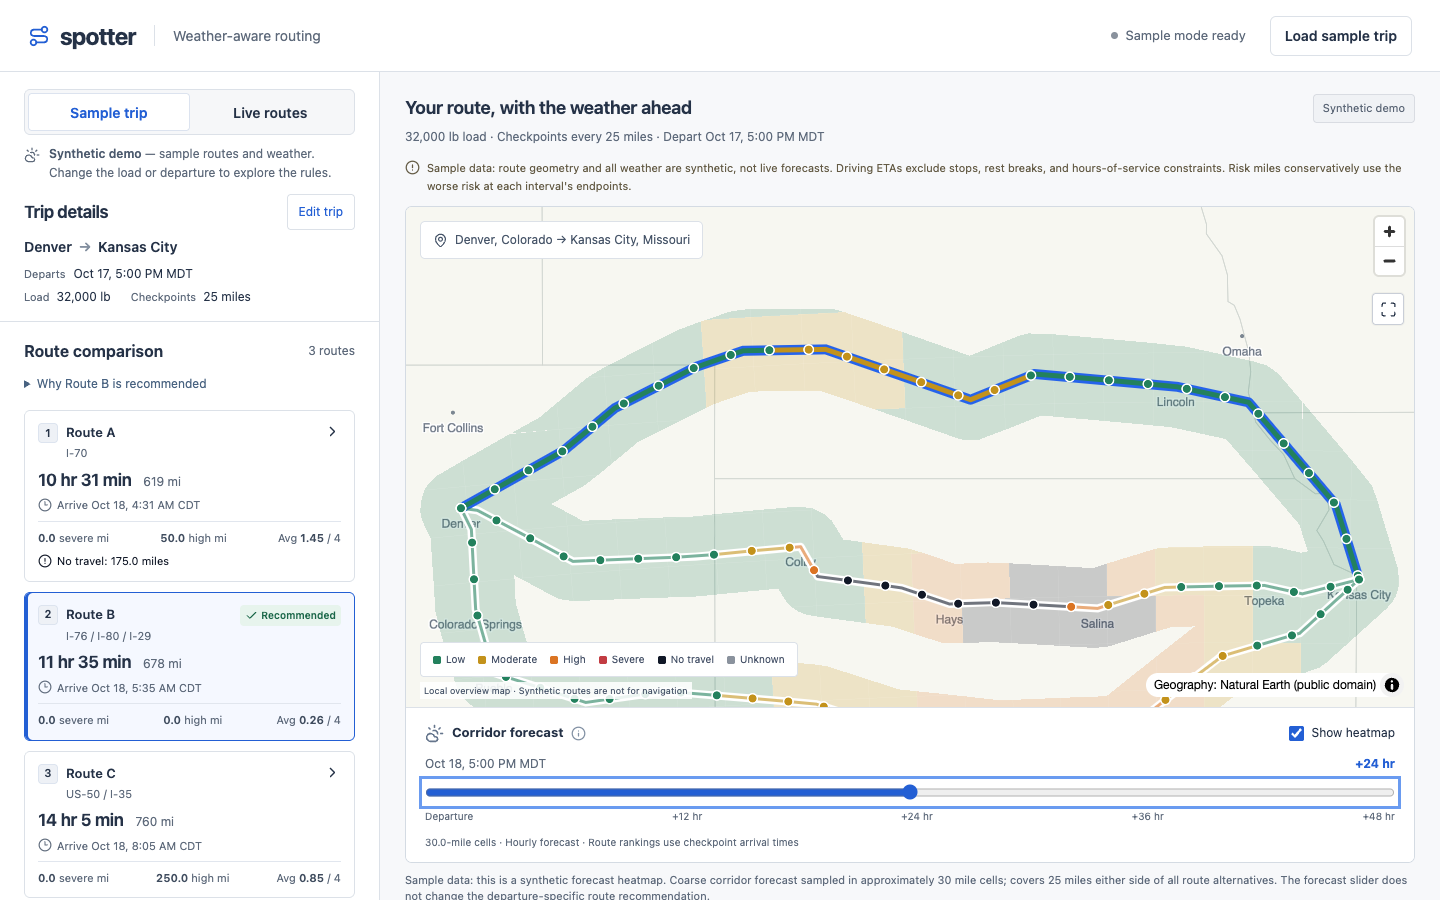
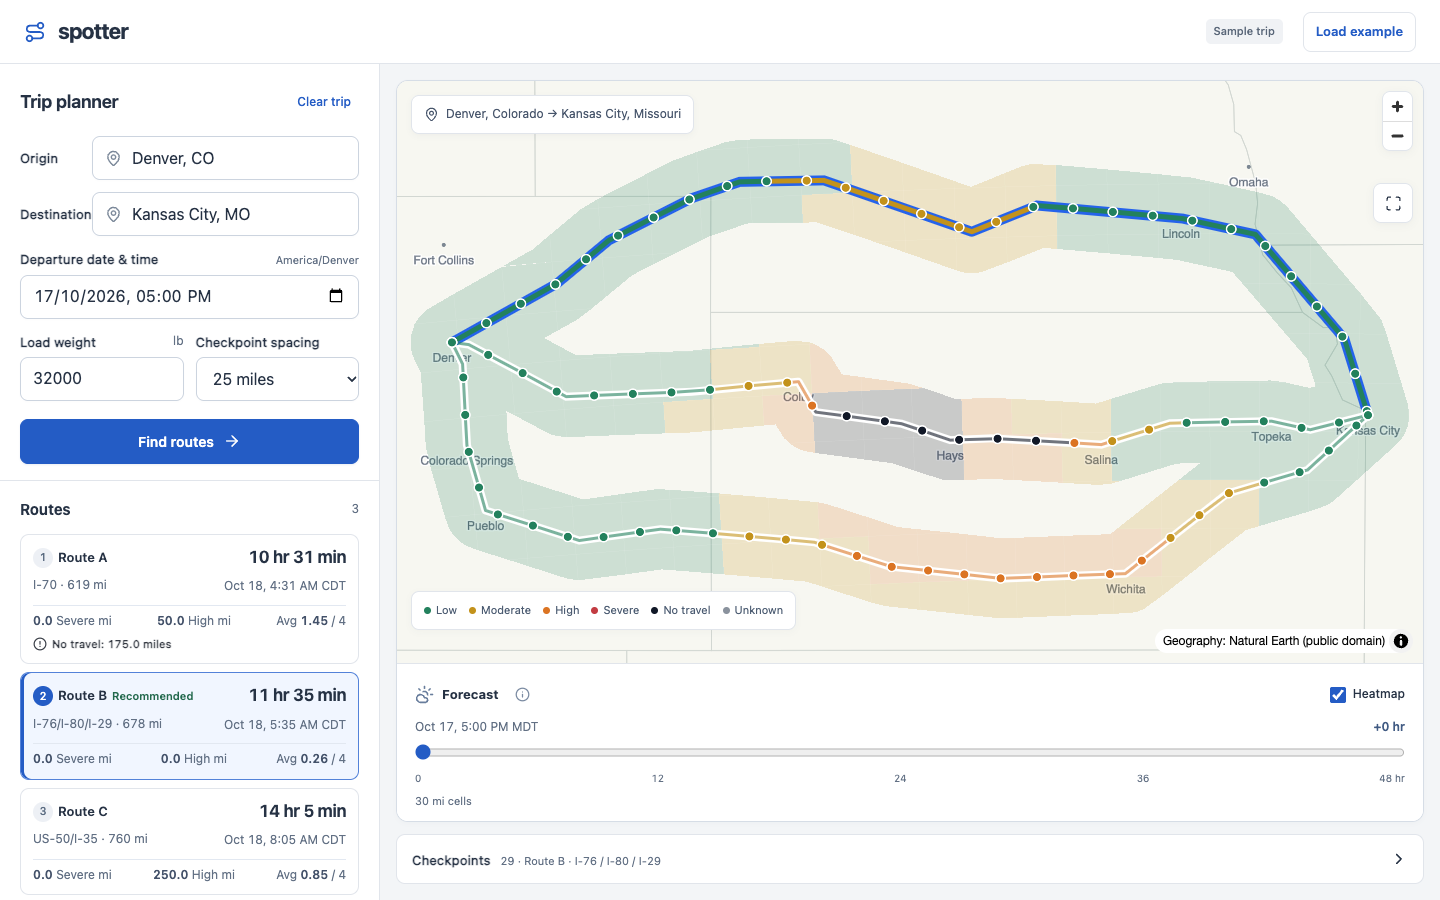
update the planner walkthrough

diff --git a/docs/walkthrough.md b/docs/walkthrough.md
@@ -1,6 +1,8 @@
 # Seven-minute Loom walkthrough
 
 Use the labeled synthetic trip for reproducibility, then show a live trip if credentials are configured.
+The app now has one editable form. Find routes always requests live data; Clear trip removes the
+example and Load example restores it. There is no sample/live tab selector.
 Keep the browser at a readable desktop width. The route comparison, map, and timeline should remain
 visible together. Do not show secret environment values or account tokens while recording.
 
@@ -9,7 +11,7 @@ visible together. Do not show secret environment values or account tokens while 
 | 0:00–0:40 | State the problem: route weather must match arrival time. Introduce origin, destination, departure, load, and spacing. Point out the synthetic-demo label. |
 | 0:40–1:40 | Compare the three routes. Explain the recommendation using Severe miles, High miles, average risk, then time. Select another route and show its highlighted geometry. |
 | 1:40–2:40 | Select a checkpoint. Show its distance, ETA, sustained wind/gust, rain, snowfall, risk, and explanation. Open the accessible checkpoint list. |
-| 2:40–3:30 | Change load across a strict threshold and compare again. Show why the wind/load rule can block a route. Explain why No Travel options are excluded. |
+| 2:40–3:30 | Inspect the blocked sample route and explain its wind/load rule. Edit the load and use Find routes to request live weather. Explain why No Travel options are excluded; actual weather may leave the risk band unchanged. |
 | 3:30–4:20 | Change 25-mile spacing to 10 or 50. Explain origin/destination inclusion, partial final intervals, and sampled-risk mileage. |
 | 4:20–5:20 | Enable the corridor heatmap and scrub 0–48 hours. Show timestamps, fixed legend, disclosed cell resolution, and unchanged route ranking. Mention that slider frames are prefetched. |
 | 5:20–6:00 | Show the mobile layout or narrow the window. Demonstrate keyboard route selection, the range slider, and equivalent checkpoint information outside the map. |

diff --git a/docs/verification.md b/docs/verification.md
@@ -4,7 +4,7 @@ Checked on 18 October 2026. Core routing CI passed for `0782af4`; the service-st
 update is covered by the frontend regressions in `64f7b0c`.
 
 - 134 backend tests passed, with Ruff and Django system checks clean.
-- 21 frontend unit tests passed. The production build and desktop/mobile browser suite passed.
+- 27 frontend unit tests passed. The production build and 10 desktop/mobile browser scenarios passed.
 - [GitHub Actions](https://github.com/thriftykapila/spotter/actions/runs/39074372989) passed all three jobs.
 - The deployed API imported Django, Shapely, pyproj, and timezonefinder on CPython 3.13.15.
 - No provider keys were found in tracked files. Local credentials are in an ignored file with 0600 permissions;
@@ -42,9 +42,14 @@ Its checkpoint list and map popup showed real ETA, wind, gusts, rain, snowfall, 
 The live interface retained its 390px mobile layout with the checkpoint table expanded.
 
 An open tab initially retained the pre-configuration health response after deployment. Service
-status now refreshes on entering Live routes and on window focus, with a Recheck service control
+status now refreshes on window focus, with a Recheck service control
 when unavailable. Regression tests verify recovery preserves the form, trip, route selection,
 and forecast hour without planning another route or fetching the corridor again.
+
+The revised workspace opens with an editable example and no mode tabs. Every manual Find routes
+submission uses live routing. Clear trip removes route and forecast data, including when an older
+request completes afterward. Tests cover clearing, restoration, late responses, and hourly scrubbing.
+Assumptions and detailed risk explanations use disclosures; blocked and incomplete route states stay visible.
 
 ## Remaining delivery item
 

diff --git a/README.md b/README.md
@@ -22,7 +22,8 @@ make dev
 ```
 
 Open http://127.0.0.1:5173. The clearly labeled synthetic Denver–Kansas City trip works without
-API keys or Redis. Change load, departure, or checkpoint spacing to explore the rules.
+API keys or Redis. The form stays editable: **Find routes** requests live data, **Clear trip**
+removes the current trip, and **Load example** restores the example. There is no sample/live switch.
 
 For live routes, copy `backend/.env.example` to `backend/.env` and configure:
 
